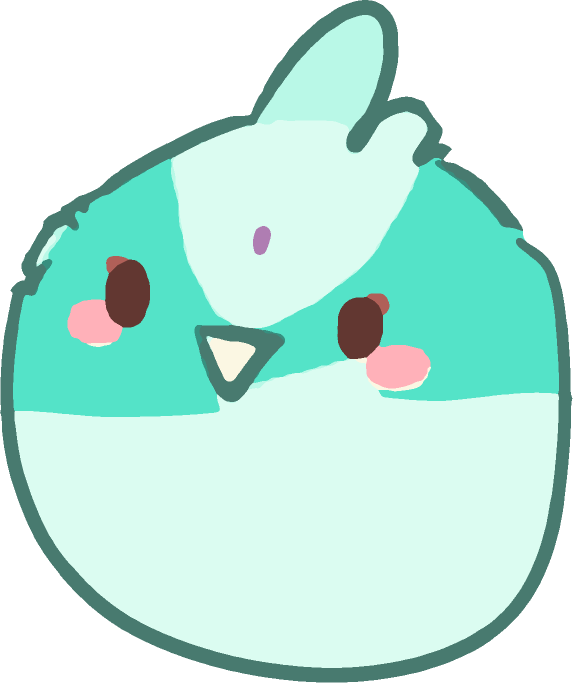
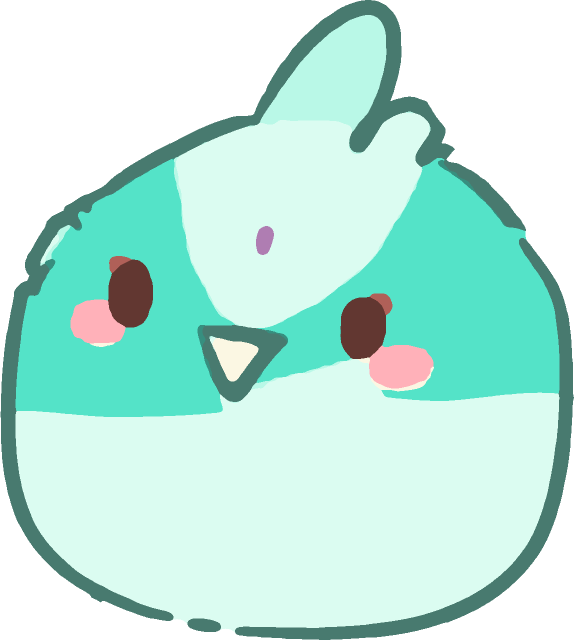
竖琴清风's flying bird is the size of the others, beats both wings from its shoulders as it swoops in banking, and folds them flat at its sides as the picture's birds hold theirs when it lands.

diff --git a/blacklist_detect/love_scenes/lyre.py b/blacklist_detect/love_scenes/lyre.py
@@ -77,12 +77,12 @@ LEAN = 12.0
 SHARP = 1.5
 # The birds (see _bird). One sits on the lyre's crossbar right of its pegs (in ref from the lyre's middle), facing
 # right, and bobs on every strum. One flies in from off the right edge on the entrance's gust, from FLY[0] to FLY[1]
-# seconds in, a flap of both wings every FLAP seconds, and lands on the curl in the top right facing us (its way in
-# design points, a curve whose last point is the curl). One sits among the cecilias in the bottom left facing us, and puffs up on
+# seconds in, a flap of both wings every FLAP seconds, swoops down past the curl in the top right and turns back up to
+# land on it facing us (its way in design points, a curve whose last point is the curl). One sits among the cecilias in the bottom left facing us, and puffs up on
 # the music's downbeat, the first strum. Sitting, each breathes, sways a little, blinks and flicks a wing now and then.
 PERCH = (53.0, -129.0)
 FLY, FLAP = (0.25, 1.35), 0.24
-WAY_IN = ((1740, 190), (1665, 135), (1585, 105), (1529, 121))
+WAY_IN = ((1705, 185), (1440, 218), (1420, 70), (1529, 121))
 # The bird among the cecilias sits a little in front of the current, over the stalks' feet.
 NEST = (88, 845)
 # Each bird's small life as it sits (the lyre's, the flyer's, the cecilias'): when it blinks, when its wing flutters,
@@ -178,7 +178,7 @@ def make(stage: Stage):  # noqa: ANN201
         for k, (_x, _y, r, angle, _ph, ember, *_rest) in enumerate(leaves):
             out.append((0.85, ("leaf", k), lambda r=r, angle=angle, ember=ember, k=k: _maple_pair(r, angle, ember, 10 + k, ss)))
         out.append((0.85, "seed", lambda: _seed(18, ss)))
-        for name in ("flyer", "flyer_blink", "wing"):
+        for name in ("flyer", "flyer_blink", "wing", "fold"):
             out.append((0.2, ("bird", name), lambda name=name: _bird(name, BIRD_WIDE["flyer"] * ss)))
         for name in ("perch", "perch_blink", "lily", "lily_blink"):
             out.append((0.3, ("bird", name), lambda name=name: _bird(name, BIRD_WIDE[name.split("_")[0]] * ss)))
@@ -339,16 +339,20 @@ def make(stage: Stage):  # noqa: ANN201
                 _tumble(p, art["updraft", k], lx + 3 * u * math.sin(life * 1.4 + k) + 0.3 * lift, ly - rise_k - lift,
                         ang + life * 90, _flip(phase, 2.0, life), hero, px)
         # The bird on the wind, flapping in from the right and landing on the curl.
-        if t > FLY[0] and ("bird", "wing") in art:
+        if t > FLY[0] and ("bird", "fold") in art:
             way, flap, squash, hop = _flight(t)
             fx, fy = _bezier_at([xy(*point) for point in WAY_IN], way)
             if way < 1:
-                # Up on each downstroke, stretched a little as it pulls, leaning the way it flies.
+                # Up on each downstroke, stretched a little as it pulls; banked into the way it flies and rocking a
+                # little stroke to stroke, then flaring back to brake as it comes in to land.
                 nx, _ny = _bezier_at([xy(*point) for point in WAY_IN], min(1.0, way + 0.02))
-                pull = flap / STROKE * (1 - smooth(0.8, 1.0, way))
+                toward = max(-1.0, min(1.0, (nx - fx) / (2 * u)))
+                pull = min(flap, STROKE) / STROKE * (1 - smooth(0.85, 1.0, way))
                 size = 0.88 + 0.12 * smooth(0.85, 1.0, way)
-                lean = max(-1.0, min(1.0, (nx - fx) / (2 * u))) * 7 * (1 - smooth(0.85, 1.0, way))
-                _flyer(p, art, "flyer", fx, fy - 4 * u * pull, lean, size * (1 - 0.03 * pull), size * (1 + 0.05 * pull), fade, px, flap)
+                lean = toward * (13 - 19 * smooth(0.7, 0.92, way)) * (1 - smooth(0.92, 1.0, way))
+                lean += 1.5 * math.sin(math.pi * (t - FLY[0]) / FLAP) * (1 - smooth(0.85, 1.0, way))
+                _flyer(p, art, "flyer", fx, fy - 4 * u * pull, lean, size * (1 - 0.03 * pull), size * (1 + 0.05 * pull), fade, px,
+                       flap, toward)
             else:
                 idle, sx, sy, sway = _idle(t, 1)
                 _flyer(p, art, idle.replace("bird", "flyer"), fx, fy - hop * u, sway, sx * (1 + 0.08 * squash),
@@ -559,38 +563,49 @@ def _sat(p: QPainter, image: QImage, x: float, y: float, angle: float, sx: float
 
 
 def _flyer(p: QPainter, art: dict, name: str, x: float, y: float, angle: float, sx: float, sy: float, alpha: float,
-           px: float, flap: float) -> None:
-    """The flyer (name: "flyer" or "flyer_blink") as _sat lays a bird on, a wing at each side turned down flap degrees
-    from raised as the picture holds it (STROKE at the bottom of a flap, FOLD folded down its sides), shortened a little
-    as it sweeps forward. Raised, the wings are behind the bird, as the picture's raised wing is by the head; lowered,
-    in front of it."""
-    body, wing = art["bird", name], art["bird", "wing"]
-    if flap >= STROKE / 2:
+           px: float, flap: float, lead: float = 0.0) -> None:
+    """The flyer (name: "flyer" or "flyer_blink") as _sat lays a bird on, a wing at each shoulder turned down flap
+    degrees from raised as the picture holds it (STROKE at the bottom of a flap), behind the bird as the picture's
+    raised wing is by the head, and shorter as it sweeps forward. Past SWAP, the folded wing on each side instead, in
+    front of the bird as the picture's birds that face us hold theirs, opening out less as flap comes to FOLD. lead (-1
+    to 1) is how far it flies to its left or right: that side's wing beats a little less deep."""
+    if alpha <= 0.01:
+        return
+    body = art["bird", name]
+    folded = flap > SWAP
+    wing = art["bird", "fold" if folded else "wing"]
+    if folded:
         _sat(p, body, x, y, angle, sx, sy, alpha, px)
-    if alpha > 0.01:
-        places = _bird_places()
-        # The pictures' pixels to the bird's, across and down (BIRD_TALL draws it taller than wide).
-        kx, ky = body.width() / _bird_file("front").width(), body.height() / _bird_file("front").height()
-        (root_x, root_y), (tip_x, tip_y) = places["wing"]["root"], places["wing"]["tip"]
-        along = math.degrees(math.atan2((tip_x - root_x) * kx, (root_y - tip_y) * ky))
-        # Shorter as it sweeps forward; folding, it turns over (its feathers out) and tucks in to half its length.
-        tuck = float(smooth(STROKE, FOLD, flap))
-        length = (1 - 0.18 * math.sin(math.pi * min(1.0, flap / STROKE))) * (1 - 0.5 * tuck)
-        for side, mirror in (("right", 1), ("left", -1)):
-            at_x, at_y = places["front"][side]
-            p.save()
-            p.translate(x, y)
-            p.rotate(angle)
-            p.scale(sx / px, sy / px)
-            p.translate(at_x * kx - body.width() / 2, at_y * ky - body.height())
-            p.scale(mirror, 1)
-            p.rotate(flap + along)
-            p.scale(1 - 2 * tuck, length)
+    places = _bird_places()
+    # The pictures' pixels to the bird's, across and down (BIRD_TALL draws it taller than wide); the folded wing's are
+    # TUCK of those.
+    kx, ky = body.width() / _bird_file("front").width(), body.height() / _bird_file("front").height()
+    k = TUCK if folded else 1.0
+    (root_x, root_y), (tip_x, tip_y) = places["fold" if folded else "wing"]["root"], places["wing"]["tip"]
+    along = math.degrees(math.atan2((tip_x - root_x) * kx, (root_y - tip_y) * ky))
+    # A quarter shorter at the bottom of a flap, and shorter still going on down to fold.
+    length = 1 - 0.25 * math.sin(math.pi / 2 * min(1.0, flap / STROKE)) - 0.2 * float(smooth(STROKE, SWAP, flap))
+    opened = (FOLD - flap) / (FOLD - SWAP)
+    for side, mirror in (("right", 1), ("left", -1)):
+        at_x, at_y = places["front"][side]
+        p.save()
+        p.translate(x, y)
+        p.rotate(angle)
+        p.scale(sx / px, sy / px)
+        p.translate(at_x * kx - body.width() / 2, at_y * ky - body.height())
+        p.scale(mirror, 1)
+        if folded:
+            # Opening out from the bird's side, a little bigger as it does, to meet the wing coming down.
+            p.rotate(-OPEN * opened)
+            p.scale(1 + 0.25 * opened, 1 + 0.25 * opened)
+        else:
+            p.rotate(flap * (1 - 0.15 * max(0.0, lead * mirror) * (flap <= STROKE)) + along)
+            p.scale(1, length)
             p.rotate(-along)
-            # Laid on as a bird is, so its root is where it turns.
-            _sat(p, wing, wing.width() / 2 - root_x * kx, wing.height() - root_y * ky, 0, 1, 1, alpha, 1)
-            p.restore()
-    if flap < STROKE / 2:
+        # Laid on as a bird is, so its root is where it turns.
+        _sat(p, wing, wing.width() / 2 - root_x * kx * k, wing.height() - root_y * ky * k, 0, 1, 1, alpha, 1)
+        p.restore()
+    if not folded:
         _sat(p, body, x, y, angle, sx, sy, alpha, px)
 
 
@@ -622,24 +637,32 @@ def _flight(t: float) -> tuple[float, float, float, float]:
     as it lands, and (in points) how high it hops as it flaps once on the second strum."""
     k = win(t, *FLY)
     if k < 1:
-        # Each flap a quick stroke down and a slower one up; the last folds the wings as it lands.
-        beat = (t - FLY[0]) / FLAP % 1
-        flap = STROKE * (ease_in_out(beat / 0.4) if beat < 0.4 else 1 - ease_in_out((beat - 0.4) / 0.6))
-        fold = smooth(0.8, 1.0, k)
-        return 1 - (1 - k) ** 2, flap + (FOLD - flap) * fold, 0.0, 0.0
+        # Each flap a quick stroke down, snapping at the bottom, and a slower one up, easing into the picture's raised
+        # pose; counted back from the last, whose stroke down goes on to fold the wings as it lands.
+        last = FLY[1] - FLAP
+        if t < last:
+            beat = (t - last) / FLAP % 1
+            flap = STROKE * ((beat / 0.35) ** 2 if beat < 0.35 else (1 - (beat - 0.35) / 0.65) ** 2)
+        else:
+            flap = FOLD * ease_out((t - last) / FLAP)
+        return 1 - (1 - k) ** 2, flap, 0.0, 0.0
     x = t - FLY[1]
     squash = math.sin(x * 2 * math.pi / 0.4) * math.exp(-x / 0.16)
+    # Settling, the folded wings lift from its sides a moment.
+    flap = FOLD - 10 * max(0.0, squash)
     x = t - STRUMS[1][0]
     if 0 <= x < 0.36:
-        # Up from its sides, one stroke down and folded again.
-        if x < 0.12:
-            flap = FOLD * (1 - ease_in_out(x / 0.12))
-        elif x < 0.22:
-            flap = STROKE * ease_in_out((x - 0.12) / 0.1)
+        # Open from its sides, up, one stroke down and folded again.
+        if x < 0.05:
+            flap = FOLD - (FOLD - SWAP) * ease_in_out(x / 0.05)
+        elif x < 0.14:
+            flap = SWAP * (1 - ease_out((x - 0.05) / 0.09))
+        elif x < 0.2:
+            flap = STROKE * ((x - 0.14) / 0.06) ** 2
         else:
-            flap = STROKE + (FOLD - STROKE) * ease_in_out((x - 0.22) / 0.14)
+            flap = STROKE + (FOLD - STROKE) * ease_out((x - 0.2) / 0.16)
         return 1.0, flap, squash, 4 * math.sin(math.pi * min(1.0, x / 0.32))
-    return 1.0, FOLD, squash, 0.0
+    return 1.0, flap, squash, 0.0
 
 
 def _bezier_at(points: list, k: float) -> tuple[float, float]:
@@ -1782,11 +1805,15 @@ def _seed(length: float, ss: float) -> QImage:
 BIRDS_DIR = Path(__file__).resolve().parent.parent / "assets" / "birds"
 # How wide each is across, in design points: the one on the lyre as wide as keeps its ears under the top border once
 # BIRD_TALL makes it taller.
-BIRD_WIDE = {"perch": 57.0, "flyer": 66.0, "lily": 70.0}
+# The flyer as tall as the perch bird would be 66 wide, as it was when it was that bird turned round.
+BIRD_WIDE = {"perch": 57.0, "flyer": 47.0, "lily": 70.0}
 # How much taller than the picture each bird is drawn, for the user's taste: a little less squat.
 BIRD_TALL = 1.12
-# The flyer's wings turned down from raised, in degrees: at the bottom of a flap, and folded down its sides.
-STROKE, FOLD = 100.0, 150.0
+# The flyer's wings turned down from raised, in degrees: at the bottom of a flap, where the folded wing takes over
+# (opening out OPEN degrees from the bird's side) going on down, and folded. The folded wing is the cecilias' bird's,
+# the picture's biggest: made TUCK of the flyer's size.
+STROKE, SWAP, FOLD, OPEN = 80.0, 125.0, 150.0, 30.0
+TUCK = 0.42
 _BIRD_FILES: dict[str, QImage] = {}
 _BIRD_LOCK = threading.Lock()
 
@@ -1807,8 +1834,8 @@ def _bird(name: str, wide: float) -> QImage:
     """Cut-out name ("perch", "lily", "flyer", each or with "_blink", or "wing") made smoothly to wide pixels across
     its bird: the flyer is the front bird, and the wing is made to the flyer's size."""
     source = _bird_file(name.replace("flyer", "front"))
-    if name == "wing":
-        wide *= source.width() / _bird_file("front").width()
+    if name in ("wing", "fold"):
+        wide *= source.width() / _bird_file("front").width() * (TUCK if name == "fold" else 1)
     # Halved a step at a time, so the line keeps its weight and nothing shimmers; then BIRD_TALL taller.
     while source.width() > 2 * wide:
         source = source.scaledToWidth(source.width() // 2, Qt.SmoothTransformation)

diff --git a/build/lyre_birds.py b/build/lyre_birds.py
@@ -123,13 +123,19 @@ BIRDS = {
             ("fill", "white", [(684, 1088), (740, 1090), (790, 1088), (830, 1081), (860, 1079), (900, 1082), (976, 1084), (975, 1160),
                                (940, 1200), (850, 1228), (760, 1215), (700, 1170), (680, 1110)]),
             ("fill", "white", [(810, 1086), (830, 1074), (870, 1074), (870, 1095), (810, 1095)], ["dark", "line", "teal"]),
-            ("line", [(737, 976), (714, 990), (698, 1015), (690, 1048), (688, 1085), (694, 1122), (712, 1160), (746, 1192),
-                      (796, 1212), (852, 1219), (902, 1211), (938, 1190), (958, 1155), (966, 1105), (966, 1055), (960, 1018),
+            # Round and wider than tall as the picture's birds are, its bottom fluffy as theirs: broken, with flicks.
+            ("line", [(737, 976), (714, 990), (698, 1015), (690, 1048), (687, 1085), (689, 1120), (699, 1148), (720, 1170),
+                      (750, 1185), (768, 1190)]),
+            ("line", [(778, 1193), (792, 1195)], 6.5),
+            ("line", [(802, 1197), (850, 1198), (892, 1193), (926, 1179), (950, 1155), (962, 1120), (966, 1075), (962, 1032),
                       (944, 1002)]),
+            ("line", [(733, 1178), (727, 1187), (720, 1192)], 5.5),
+            ("line", [(906, 1188), (914, 1195), (922, 1198)], 5.5),
+            ("line", [(956, 1140), (964, 1146), (969, 1154)], 5),
         ],
         "eyes": [(748, 1028), (863, 1045)],
-        # Where its wings grow from its sides, low on them as the picture's raised wing does.
-        "points": {"left": (700, 1122), "right": (958, 1122)},
+        # Where its wings grow from its sides: at the shoulders, where the teal of its sides meets its white belly.
+        "points": {"left": (701, 1090), "right": (953, 1090)},
     },
     # The raised wing of the bird at the bottom right, alone: the flyer flaps it. Its edge where it meets that bird's
     # body is drawn on.
@@ -146,6 +152,30 @@ BIRDS = {
         "eyes": [],
         # Its base, where it turns, and its tip.
         "points": {"root": (962, 1166), "tip": (1058, 930)},
+    },
+    # A folded wing, alone: the cecilias' bird's own (at its right), held flat on its side as the picture's birds that
+    # face us hold theirs. The flyer folds its wings to it. Its bottom, past the picture's edge, is drawn on as that
+    # bird's is.
+    "fold": {
+        "box": (300, 1310, 480, 1640),
+        "outline": [(320, 1400), (335, 1365), (365, 1338), (400, 1328), (440, 1336), (462, 1352), (472, 1380), (474, 1420),
+                    (474, 1460), (474, 1500), (470, 1530), (458, 1565), (440, 1598), (415, 1624), (390, 1627), (365, 1612),
+                    (345, 1587), (332, 1550), (322, 1500), (316, 1450)],
+        "seeds": [(380, 1450), (400, 1380)],
+        "repair": [
+            ("line", [(347, 1516), (350, 1550), (360, 1580), (378, 1602), (400, 1612)]),
+            ("line", [(458, 1516), (448, 1550), (433, 1584), (416, 1605), (398, 1613)]),
+            # Alone, it is closed where it meets the body: at its top, thinly behind the dashes down its inner edge,
+            # and below its scallops, where the body's teal shows, by one more scallop.
+            ("fill", "white", [(392, 1352), (446, 1350), (452, 1374), (428, 1366), (398, 1364)], ["teal"]),
+            ("line", [(432, 1342), (446, 1352), (452, 1366), (452, 1382)]),
+            ("line", [(343, 1418), (337, 1445), (334, 1470), (335, 1497)], 4.5),
+            ("fill", "white", [(424, 1494), (463, 1486), (463, 1528), (428, 1530)], ["teal"]),
+            ("line", [(428, 1490), (446, 1490), (456, 1500), (459, 1518)]),
+        ],
+        "eyes": [],
+        # Where it hangs from the bird's shoulder, and opens out about: under its top, its outer third past the side.
+        "points": {"root": (402, 1415)},
     },
 }
 
